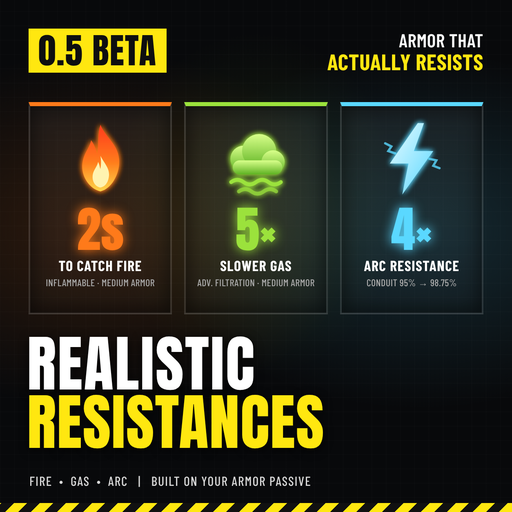
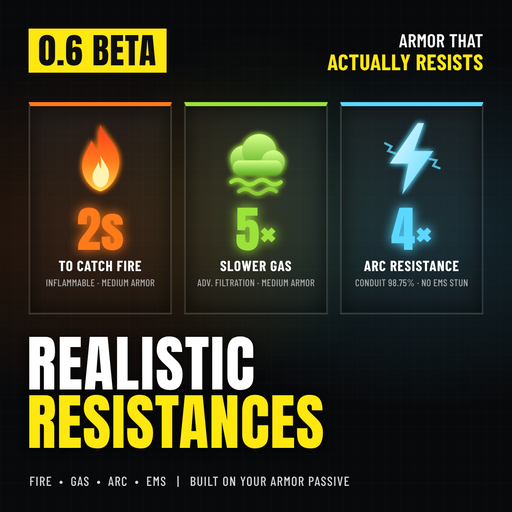
0.6.0: art script (0.6 badge, EMS, AyakaMods cover, no stripe bands) and mod manager thumbnail

Changed region(s): [[0.0, 0.9062, 1.0, 1.0], [0.6875, 0.5312, 0.9375, 0.5625], [0.125, 0.0625, 0.1562, 0.125]]

diff --git a/src/art/art.py b/src/art/art.py
@@ -1,14 +1,14 @@
 """Renders Realistic Resistances' art with Chromium (Playwright), in the same family as the other mods: Anton +
-Barlow Condensed, yellow on black with a hazard stripe. Three element cards (fire, gas, arc) carry the mod's real
+Barlow Condensed, yellow on black (no hazard-stripe bands: Don's rule since 0.6.0). Three element cards (fire, gas, arc) carry the mod's real
 numbers. Everything is drawn here (no game assets, logos or emblems).
 Outputs (this folder): thumbnail_1254.png, thumbnail_512.png (mod manager), header_1300x372.png,
-gallery_1920x1080.png, values_1920x1080.png, GitHub-Social-1280x640.png, options/*.png (option icons)."""
+gallery_1920x1080.png, values_1920x1080.png, GitHub-Social-1280x640.png, AyakaMods-Cover-1600x1000.png, options/*.png (option icons)."""
 import base64, os
 from PIL import Image
 from playwright.sync_api import sync_playwright
 
 ART = os.path.dirname(os.path.abspath(__file__))
-BADGE = '0.5 BETA'
+BADGE = '0.6 BETA'
 YELLOW = '#ffe710'
 FIRE, GAS, ARC = '#ff7a1a', '#9be23c', '#5ad8ff'
 
@@ -70,7 +70,7 @@ ICONS = {'fire': (flame, FIRE), 'gas': (cloud, GAS), 'arc': (bolt, ARC)}
 CARDS = [  # kind, big number, line 1, line 2 (the mod's real values)
     ('fire', '2s', 'TO CATCH FIRE', 'INFLAMMABLE &middot; MEDIUM ARMOR'),
     ('gas', '5&times;', 'SLOWER GAS', 'ADV. FILTRATION &middot; MEDIUM ARMOR'),
-    ('arc', '4&times;', 'ARC RESISTANCE', 'CONDUIT 95% &rarr; 98.75%'),
+    ('arc', '4&times;', 'ARC RESISTANCE', 'CONDUIT 98.75% &middot; NO EMS STUN'),
 ]
 
 
@@ -97,8 +97,6 @@ def page(w, h, L):
                     radial-gradient(ellipse at {L['glow3']}, rgba(155,226,60,0.10), rgba(0,0,0,0) 40%),
                     repeating-linear-gradient(0deg, rgba(255,255,255,0.025) 0 1px, transparent 1px {28*u:.0f}px),
                     repeating-linear-gradient(90deg, rgba(255,255,255,0.025) 0 1px, transparent 1px {28*u:.0f}px); }}
-      .stripe {{ position:absolute; left:0; right:0; bottom:0; height:{L['stripe']}px;
-        background: repeating-linear-gradient(-45deg, {YELLOW} 0 {18*u:.0f}px, #111 {18*u:.0f}px {36*u:.0f}px); }}
       .badge {{ position:absolute; {L['badge']}; background:{YELLOW}; color:#0e0e10; font:{L['badge_size']}px Anton;
         padding:0 {L['badge_size']*0.28:.0f}px; line-height:1.25; letter-spacing:0.02em; }}
       .tag {{ position:absolute; {L['tag']}; text-align:right; font-family:Barlow; font-weight:700; letter-spacing:0.04em; line-height:1.05; }}
@@ -120,12 +118,12 @@ def page(w, h, L):
       .card .l2 {{ font-family:Barlow; font-weight:500; color:#a9a9a9; font-size:{L['l2']}px; letter-spacing:0.02em; white-space:nowrap; margin-top:{L['pad']*0.25:.0f}px; }}
       .card.c {{ border-top-width:{5*u:.0f}px; border-top-color:rgba(255,231,16,0.8); padding:{L['pad']}px; justify-content:center; }}
       .card.c .lbl {{ font-family:Anton; font-size:{L['l1']}px; margin-top:{L['pad']*0.4:.0f}px; letter-spacing:0.06em; }}
-    </style></head><body><div class="bg"></div><div class="stripe"></div>
+    </style></head><body><div class="bg"></div>
       <div class="cards">{cards_html(u, compact)}</div>
       <div class="badge">{BADGE}</div>
       {'' if not L.get('tag') else '<div class="tag"><div class="a">ARMOR THAT</div><div class="b">ACTUALLY RESISTS</div></div>'}
       <div class="title"><div class="a">REALISTIC</div><div class="b">RESISTANCES</div></div>
-      <div class="foot">{L.get('foot_text', 'FIRE &nbsp;&bull;&nbsp; GAS &nbsp;&bull;&nbsp; ARC &nbsp;&nbsp;|&nbsp;&nbsp; BUILT ON YOUR ARMOR PASSIVE')}</div>
+      <div class="foot">{L.get('foot_text', 'FIRE &nbsp;&bull;&nbsp; GAS &nbsp;&bull;&nbsp; ARC &nbsp;&bull;&nbsp; EMS &nbsp;&nbsp;|&nbsp;&nbsp; BUILT ON YOUR ARMOR PASSIVE')}</div>
     </body></html>'''
 
 
@@ -142,11 +140,15 @@ LAYOUTS = {
         badge='left:40px; top:40px', badge_size=52, tag='right:40px; top:40px', tag_size=28,
         cards='left:560px; right:40px; top:130px; height:320px', gap=18, pad=20, icon=110, big=72, l1=21, l2=14,
         title='left:38px; top:330px', t1=110, t2=110, foot='left:42px; bottom:36px', foot_size=22)),
+    'AyakaMods-Cover-1600x1000.png': (1600, 1000, dict(u=1.35, glow1='48% 40%', glow2='88% 40%', glow3='68% 38%', stripe=0,
+        badge='left:52px; top:50px', badge_size=72, tag='right:56px; top:54px', tag_size=38,
+        cards='left:640px; right:56px; top:170px; height:400px', gap=24, pad=24, icon=140, big=96, l1=29, l2=17,
+        title='left:50px; top:600px', t1=140, t2=140, foot='left:56px; bottom:44px', foot_size=28)),
     'header_1300x372.png': (1300, 372, dict(u=0.8, glow1='62% 50%', glow2='92% 50%', glow3='77% 50%', stripe=10,
         badge='left:40px; top:30px', badge_size=36, tag=None, tag_size=1, compact=True,
         cards='left:680px; right:40px; top:40px; height:270px', gap=16, pad=14, icon=120, big=1, l1=34, l2=1,
         title='left:38px; top:96px', t1=96, t2=96, foot='left:42px; bottom:26px', foot_size=20,
-        foot_text='FIRE &nbsp;&bull;&nbsp; GAS &nbsp;&bull;&nbsp; ARC')),
+        foot_text='FIRE &nbsp;&bull;&nbsp; GAS &nbsp;&bull;&nbsp; ARC &nbsp;&bull;&nbsp; EMS')),
 }
 
 
@@ -167,16 +169,15 @@ def values_page():
                 [['Adv. Filtration 80%', '3.75 / 5 / 6.25&times;', 'never'], ['Acclimated 50%', '1.5 / 2 / 2.5&times;', '2.5 s'],
                  ['Desert Stormer 40%', '1.25 / 1.67 / 2.08&times;', '3 s'], ['Hazmat, Padding 25%', '1 / 1.33 / 1.67&times;', '3.75 s']],
                 'Vanilla stumbling: 5 s. A full-strength hit (strike blast, grenade at your feet) stays vanilla.')
-    arc = table('arc', 'ARC', ['PASSIVE', 'DAMAGE RES.', 'ARC STUN'],
-                [['Electrical Conduit 95%', '98.75%', '0.075 s'], ['Adreno-Defib. 50%', '87.5%', '0.75 s'], ['Acclimated 50%', '87.5%', '0.75 s'],
-                 ['Desert Stormer 40%', '85%', '0.9 s']],
-                'Vanilla stun: 1.5 s. Electrical Conduit also grounds arcs: they end at you instead of chaining on.')
+    arc = table('arc', 'ARC', ['PASSIVE', 'DAMAGE', 'STUN', 'EMS AFTER'],
+                [['Elec. Conduit 95%', '98.75%', '0.075 s', 'never'], ['Adreno-Defib. 50%', '87.5%', '0.75 s', '1.5 s'], ['Acclimated 50%', '87.5%', '0.75 s', '1.5 s'],
+                 ['Desert Stormer 40%', '85%', '0.9 s', '1.8 s']],
+                'Vanilla: arc stun 1.5 s, EMS 3 s after the field. Conduit is never stunned by EMS and grounds arcs.')
     return f'''<!doctype html><html><head><meta charset="utf-8"><style>{FONTS}
       html,body {{ margin:0; width:{w}px; height:{h}px; overflow:hidden; background:#08090b; }}
       .bg {{ position:absolute; inset:0; background:
           repeating-linear-gradient(0deg, rgba(255,255,255,0.025) 0 1px, transparent 1px 45px),
           repeating-linear-gradient(90deg, rgba(255,255,255,0.025) 0 1px, transparent 1px 45px); }}
-      .stripe {{ position:absolute; left:0; right:0; bottom:0; height:18px; background: repeating-linear-gradient(-45deg, {YELLOW} 0 29px, #111 29px 58px); }}
       .head {{ position:absolute; left:64px; top:46px; font-family:Anton; font-size:84px; color:#fff; letter-spacing:0.02em; }}
       .head span {{ color:{YELLOW}; }}
       .sub {{ position:absolute; left:68px; top:150px; font-family:Barlow; font-weight:600; font-size:30px; color:#cfcfcf; letter-spacing:0.05em; }}
@@ -192,7 +193,7 @@ def values_page():
       td:first-child {{ color:#e8e8e8; font-weight:500; font-size:26px; white-space:nowrap; }}
       td:not(:first-child) {{ color:var(--c); white-space:nowrap; }}
       .n {{ margin-top:auto; font-family:Barlow; font-weight:500; font-size:26px; color:#b5b5b5; line-height:1.25; letter-spacing:0.02em; }}
-    </style></head><body><div class="bg"></div><div class="stripe"></div>
+    </style></head><body><div class="bg"></div>
       <div class="head">REALISTIC <span>RESISTANCES</span></div>
       <div class="sub">YOUR ARMOR PASSIVE'S RESISTANCE NOW ALSO RESISTS THE EFFECT &nbsp;&bull;&nbsp; TIMES: LIGHT / MEDIUM / HEAVY ARMOR</div>
       <div class="grid">{fire}{gas}{arc}</div></body></html>'''
